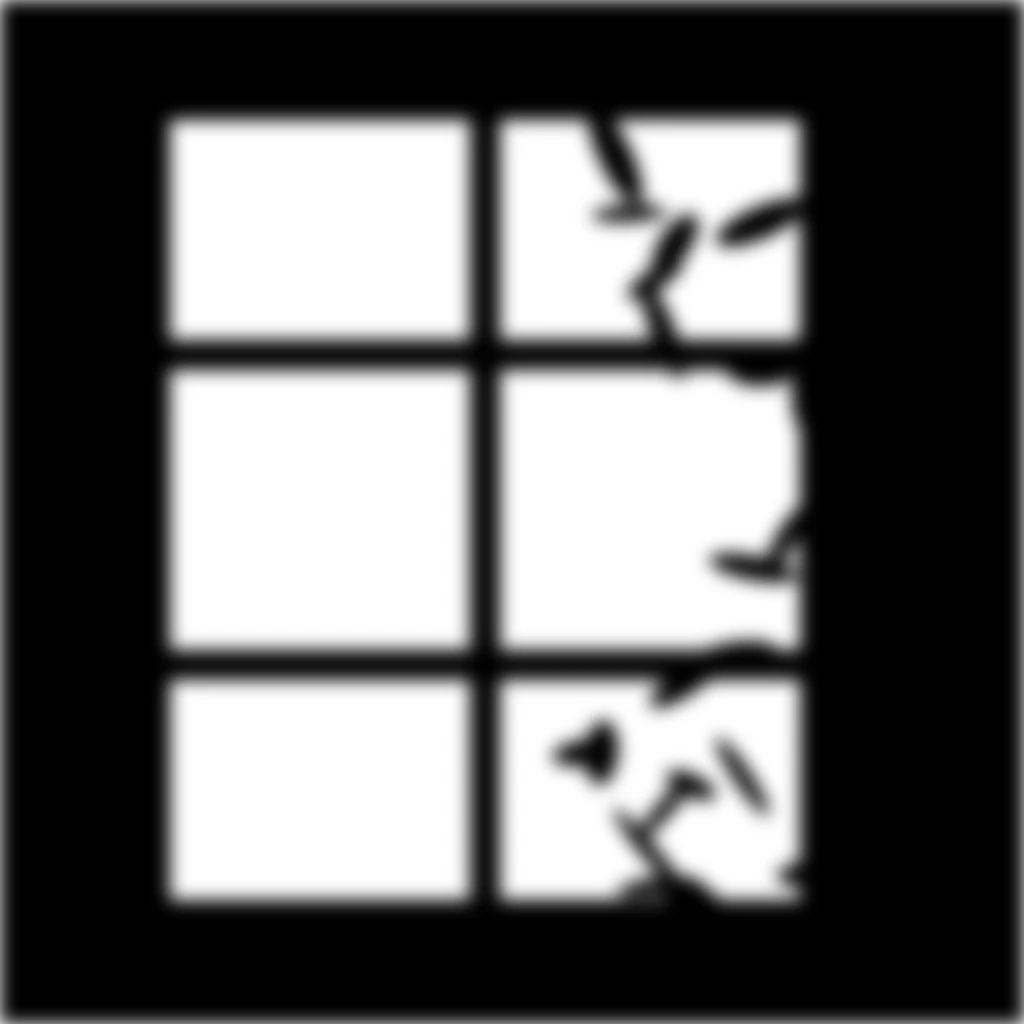
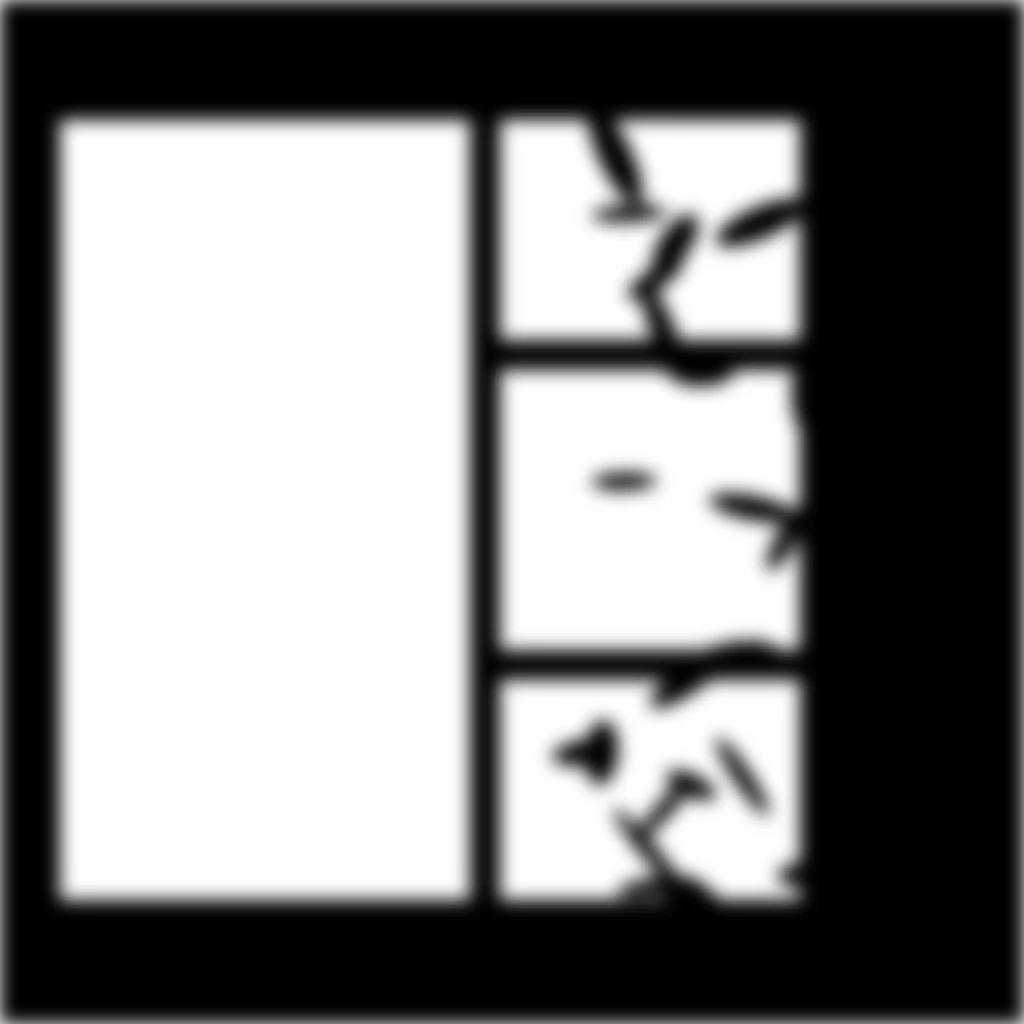
About r4: glide lands at 5.5 with the cluster framed while the copy is on screen
Claude-Session: https://claude.ai/code/session_016nJieuj3hz1PRLzcMUTyK7

diff --git a/site/js/chapters/wall.js b/site/js/chapters/wall.js
@@ -21,9 +21,17 @@ const RAIL = new Rail([
 ]);
 
 const DAY = { sun: new THREE.Color(0xffc28a), sky: new THREE.Color(0xb5c6e4), ground: new THREE.Color(0x7a5a44), sunIntensity: 6.0, sunY: 7 };
-// `aim` re-aims the dusk sun for the contact corner (along the wall, up): the
-// mullions move off the copy column, so the call to action sits in one pane.
-const DUSK = { sun: new THREE.Color(0xff8f5e), sky: new THREE.Color(0xc4a0c4), ground: new THREE.Color(0x5e3f3a), sunIntensity: 4.6, sunY: 3.4, aim: [-2.7, -0.7] };
+// The dusk sun rakes: for the contact corner it swings far back along the wall
+// (`reach`) and in close to it (`z`), with a narrower cone (`angle`), so the
+// window lands as long, stretched patches with cool violet shade between them.
+// `aim` (along the wall, up) puts the call to action in the window's tall left
+// pane and the mullion in the gap before the strip. The light is warm but not
+// orange, so paper in the sun stays near white; `rake` makes up for the low
+// angle of incidence. All of the geometry changes while the wall is off screen.
+const DUSK = {
+  sun: new THREE.Color(0xffbe84), sky: new THREE.Color(0x98a0dc), ground: new THREE.Color(0x584a62), skyIntensity: 1.8,
+  sunIntensity: 4.7, sunY: 3.2, aim: [4.17, -0.7], reach: 22.6, z: 7, angle: 0.18, rake: 3.2,
+};
 // `ABOUT_AIM` slides the sun (and its target) along the wall and down for the
 // about chapter: with the about window, the copy rises in its tall left pane,
 // the thin mullion falls in the gap between copy and cluster, and the cluster
@@ -276,7 +284,8 @@ export class WallChapter {
     const aboutMap = aboutFade < 1 ? this.aboutWindow.texture : this.tex['gobo-about'];
     const follow = this.lookAt.x * 0.88 + DUSK.aim[0] * corner + ABOUT_AIM[0] * about;
     const lower = ABOUT_AIM[1] * about;
-    this.sun.position.set(follow - 15.6, lerp(DAY.sunY, DUSK.sunY, dusk) + lower, 16.5);
+    this.sun.position.set(follow - lerp(15.6, DUSK.reach, corner), lerp(DAY.sunY, DUSK.sunY, dusk) + lower, lerp(16.5, DUSK.z, corner));
+    this.sun.angle = lerp(0.5, DUSK.angle, corner);
     this.sun.target.position.set(follow + 0.4, 0.2 + DUSK.aim[1] * corner + lower, 0);
     // Until the flash, one leaf of the window is nudged off the strip's spot so
     // it waits in clean sun; the swap back happens under the flash's white.
@@ -286,10 +295,11 @@ export class WallChapter {
     this.sun.color.copy(DAY.sun).lerp(DUSK.sun, dusk);
     this.sky.color.copy(DAY.sky).lerp(DUSK.sky, dusk);
     this.sky.groundColor.copy(DAY.ground).lerp(DUSK.ground, dusk);
+    this.sky.intensity = lerp(0.9, DUSK.skyIntensity, dusk);
 
     // Load-in: light comes up, paper settles onto the wall.
     const settle = easeOut(clamp01(intro));
-    this.sun.intensity = lerp(DAY.sunIntensity, DUSK.sunIntensity, dusk) * lerp(0.25, 1, settle);
+    this.sun.intensity = lerp(DAY.sunIntensity, DUSK.sunIntensity, dusk) * lerp(1, DUSK.rake, corner) * lerp(0.25, 1, settle);
     this.pieces.forEach((piece, index) => {
       const rest = piece.userData.rest;
       if (piece.userData.group !== 'hello') return;
@@ -308,8 +318,9 @@ export class WallChapter {
 
     // Anticipation: the room dims a touch during the countdown.
     const dim = smooth(progress(v, [T.flash.countdown[0], T.flash.fire])) * (1 - smooth(progress(v, [T.flash.fire, T.flash.fire + 0.05])));
-    this.look.exposure = WALL_LOOK.exposure * (1 - 0.14 * dim) * lerp(0.35, 1, settle) * lerp(1, 0.93, dusk);
-    this.look.gain = [WALL_LOOK.gain[0] + 0.03 * dusk, WALL_LOOK.gain[1] - 0.02 * dusk, WALL_LOOK.gain[2] - 0.03 * dusk];
+    this.look.exposure = WALL_LOOK.exposure * (1 - 0.14 * dim) * lerp(0.35, 1, settle) * lerp(1, 0.94, dusk);
+    // The warmth is in the sun, not the grade: a warm gain would turn paper coral.
+    this.look.gain = [WALL_LOOK.gain[0], WALL_LOOK.gain[1], WALL_LOOK.gain[2] + 0.01 * dusk];
   }
 
   // A strip prints out of the top of the frame, swings, settles, develops,

diff --git a/tools/bake/manifest.js b/tools/bake/manifest.js
@@ -482,11 +482,10 @@ export const TEXTURES = {
     ], { look: 'color', stamp: "'26 11 02", seed: 9 }),
   },
   'note-hello': { make: () => note('say hi! ↓', { width: 420, font: '600 76px Caveat', seed: 53 }) },
-  // The dusk window: a taller middle row, so one pane holds the call to action
-  // all the way up the screen, and the leaves that would land on the copy, the
-  // note and the heart moved off them (5 into the frame, 35 below the note, 48
-  // past the heart).
-  'gobo-dusk': { make: () => windowGobo({ rows: [220, 280, 220], nudge: { 5: [220, 0], 35: [0, 60], 48: [60, 0] } }), quality: 0.9 },
+  // The dusk window, thrown at a grazing angle: the left column is one tall pane
+  // (both bars bridged), widened to the left, so the call to action sits in one
+  // long patch of sun; the right column's bars and leaves rake across the strip.
+  'gobo-dusk': { make: () => windowGobo({ rows: [220, 280, 220], bridges: [[0, 0], [0, 1]], open: [[60, 120, 110, 780]] }), quality: 0.9 },
 
   // --- the wall: about
   // The about window: the left column is one tall pane (both its bars gone) so

diff --git a/workbench/brief.md b/workbench/brief.md
@@ -69,3 +69,4 @@ Raw three.js, vendored, importmap, no build. One smooth scroll value drives DOM 
 - Scrapbook: heavy vertical window-bar shadow cuts the riso print and "outreach crew"; at 11.79 the ticket overlaps a still-grey photo.
 - Flash tape: at 3.0 the tape comes in steeply across the heart sticker before it flattens (reads as a collision); bring it in from straight above the strip's top edge. Countdown "1" fades to pastel pink too early.
 - About: CGPA shows three times (degree line, index card, badge) — cut to one or two in the type pass. "Looking for" note overlaps the coursework card corner. At 6.25 a warm patch blows out behind the copy (leak glare; see the page-veil note above).
+- Hello to about: at 3.75-3.9 the hello chips cross the top of the SPEX polaroid while the wall glides (hello copy timing).
